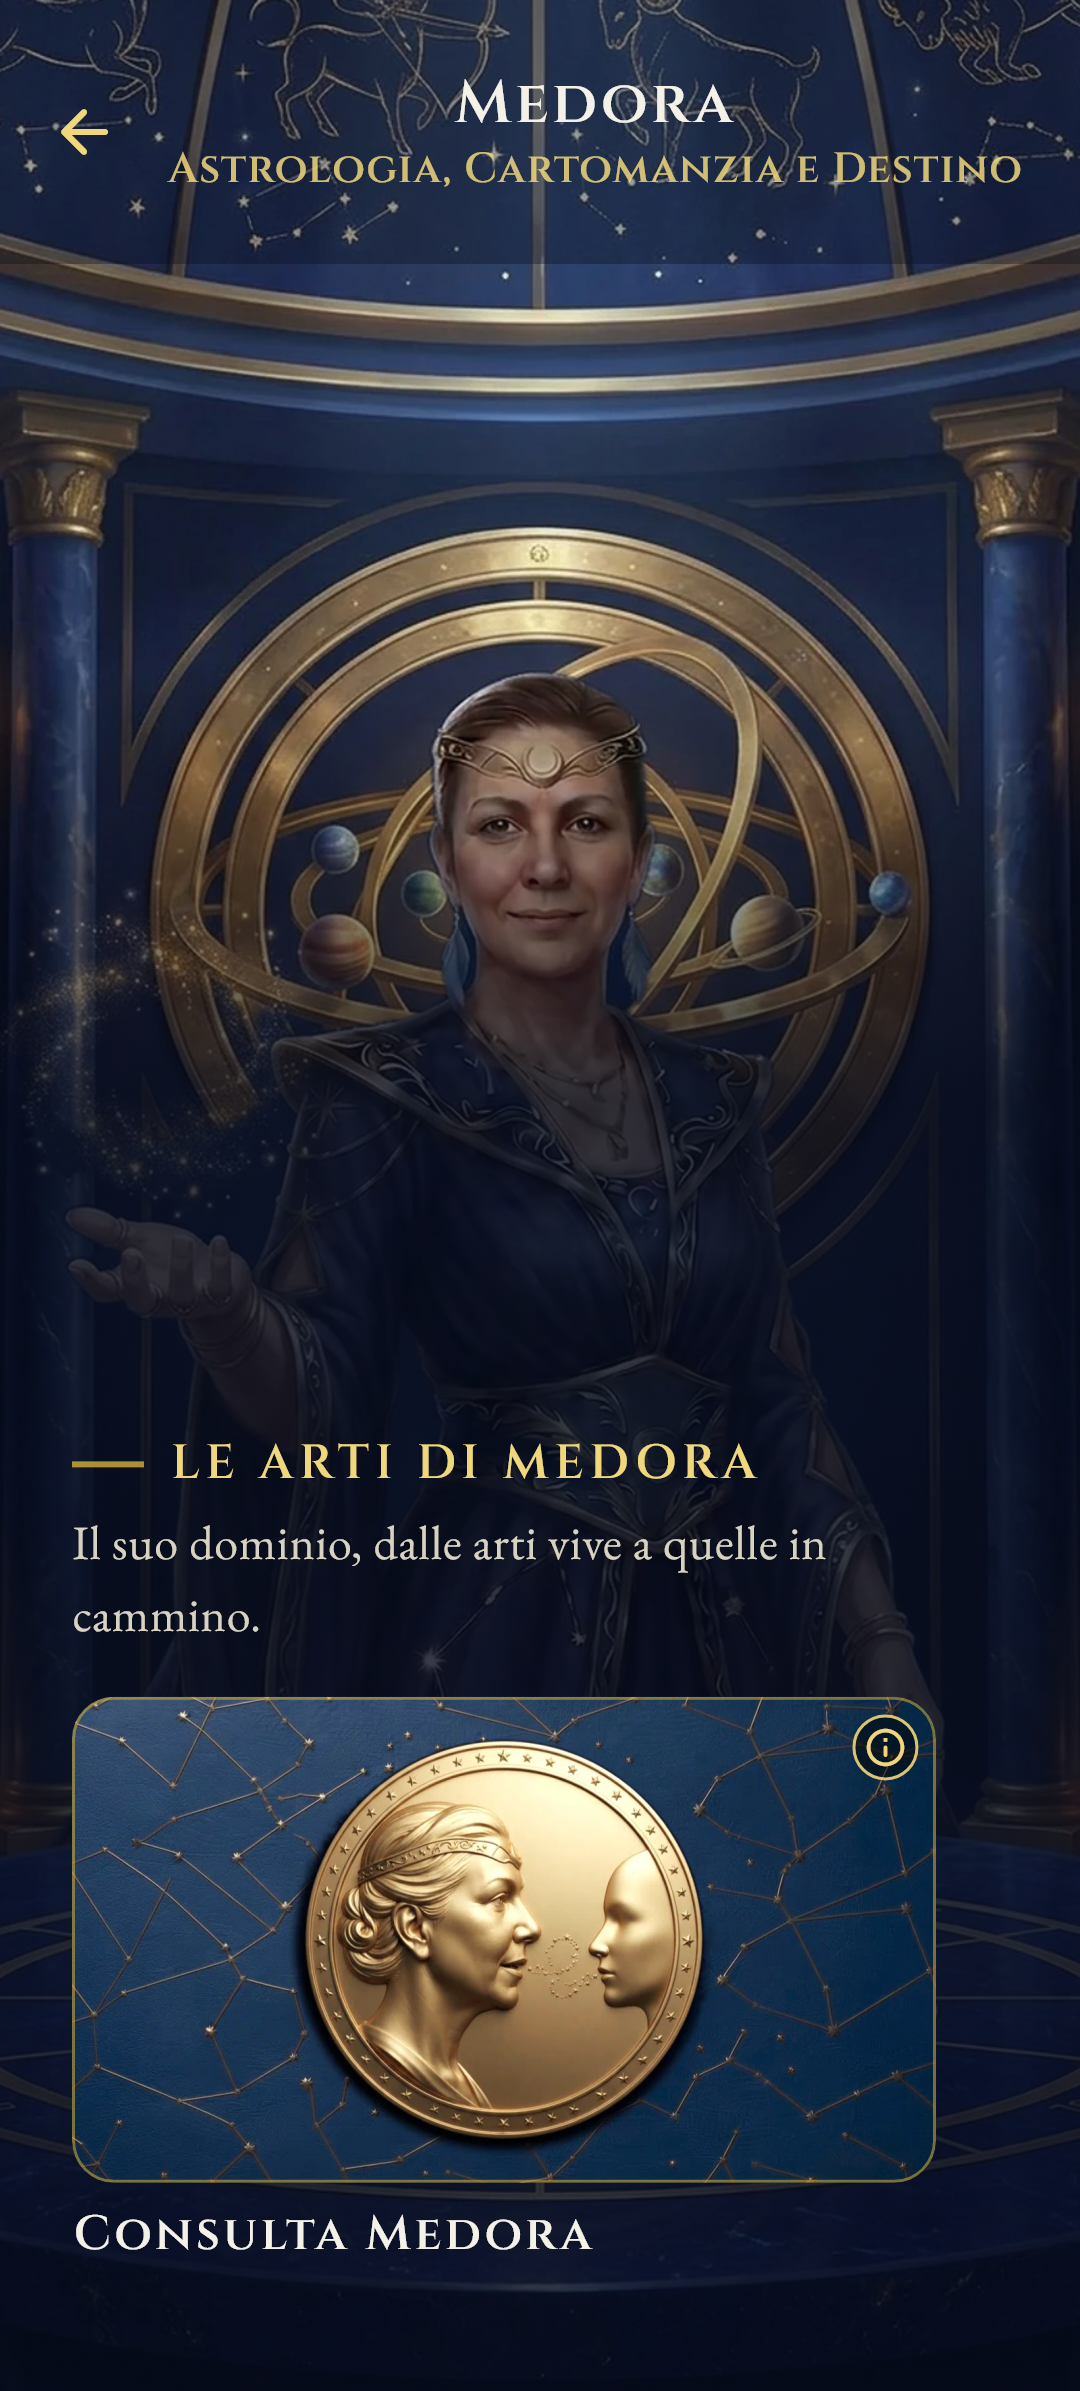
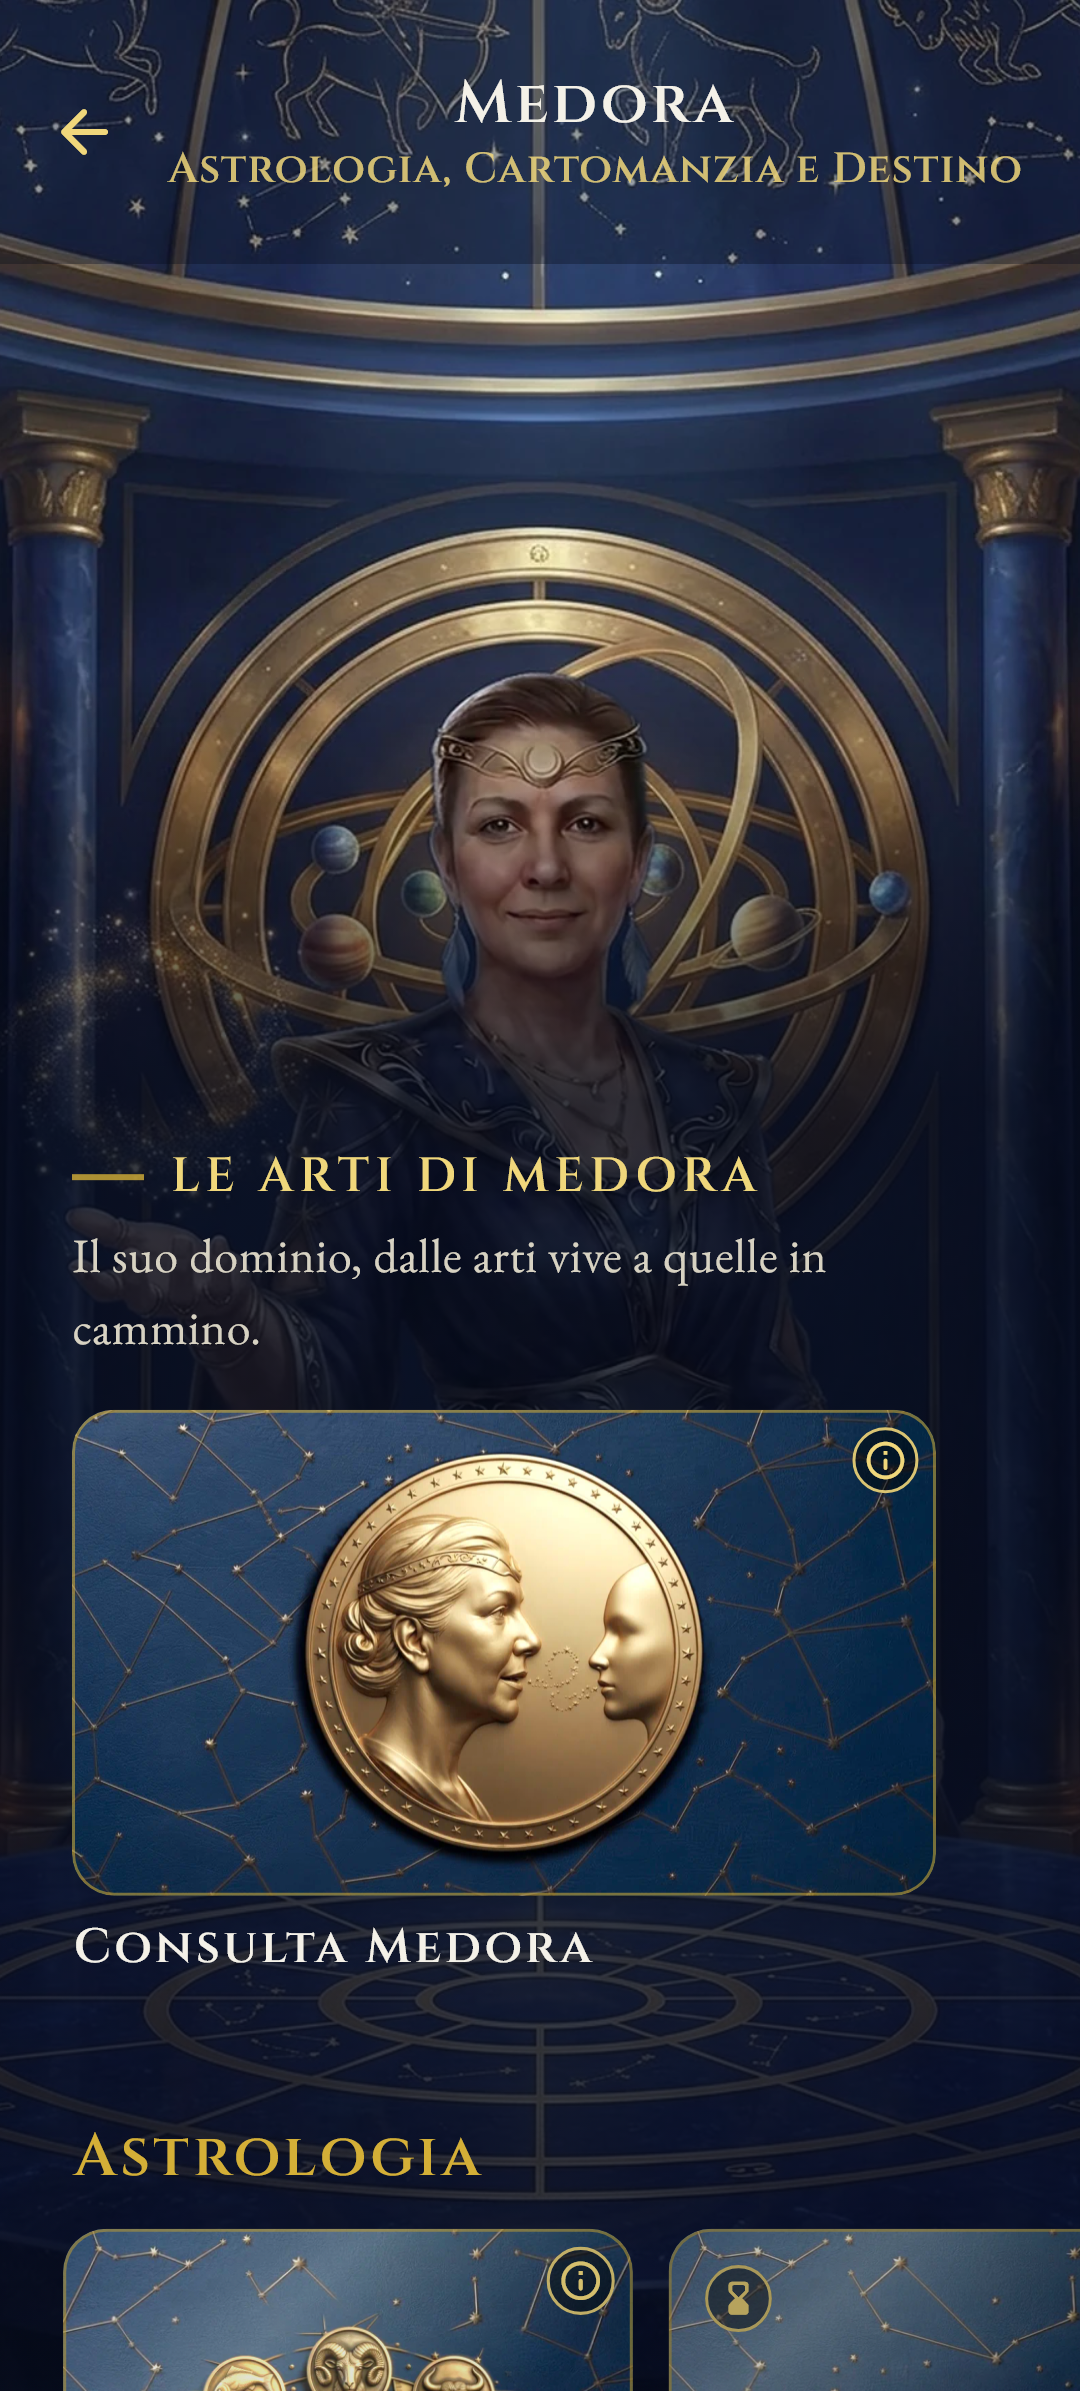
Rosso vero del cancello sul commit 2a610339, due difetti veri di FW.03, padre la stessa voce, nessuno trovato da nessuna cattura: la scheda "Consulta" del dominio, con lo spazio della scena al 46 per cento su uno schermo da 797 punti, finiva sotto la barra Esplora (sempre in vista sul dominio, 112 p
Corretti: lo spazio della scena del dominio dal 46 al 37 per cento (il viso dei tre Maestri resta scoperto con margine, verificato sulle anteprime rigenerate e riguardate), tolto un margine ridondante sopra il titolo quando la scena c'e' gia'; aggiunta la voce 'FW': 6 al sigillo dei manifesti.

flutter analyze sull'intero progetto pulito; le 206 prove della zona, comprese le due che avevano trovato i difetti, tutte verdi.

diff --git a/lib/features/maestri/domain_screen.dart b/lib/features/maestri/domain_screen.dart
@@ -233,13 +233,18 @@ class _DomainScreenState extends State<DomainScreen> {
             ),
             MaestroScreen(
               maestro: widget.maestro,
-              // **IL VISO NON SI COPRE, FW.03**: misurato sui tre ultimi
-              // fotogrammi (docs/preview/FW/), il viso dei tre Maestri sta
-              // tutto entro il 40 per cento alto dell'immagine 1080x1920. Lo
-              // spazio libero e' il 46 per cento dell'altezza dello schermo,
-              // uguale per i tre: il contenuto del dominio comincia sotto le
-              // spalle, mai sopra il mento.
-              spazioScena: MediaQuery.sizeOf(context).height * 0.46,
+              // **IL VISO NON SI COPRE, FW.03**: il viso dei tre Maestri
+              // sta entro il 40 per cento alto dell'immagine 1080x1920. Lo
+              // spazio libero era il 46 per cento dell'altezza dello
+              // schermo: su 797 punti la scheda "Consulta" (la prima azione
+              // del dominio) finiva sotto la barra in basso, sempre in
+              // vista (ordine EJ, 112 punti), e un tocco su di lei veniva
+              // assorbito dalla barra, scoperto da una prova che naviga
+              // l'app vera (test/il_maestro_non_resta_muto_test.dart), non
+              // da nessuna cattura. Il 37 per cento tiene il viso scoperto
+              // con margine e lascia la scheda sopra la barra: misurato di
+              // nuovo con la stessa prova.
+              spazioScena: MediaQuery.sizeOf(context).height * 0.37,
             ),
           ],
         ),

diff --git a/lib/features/maestri/maestro_screen.dart b/lib/features/maestri/maestro_screen.dart
@@ -90,9 +90,18 @@ class _MaestroScreenState extends State<MaestroScreen> {
             ),
           SliverToBoxAdapter(
             child: Padding(
-              padding: const EdgeInsets.fromLTRB(
+              // **COL SOPRA GIA' PIENO DELLA SCENA, NIENTE VUOTO PRIMA DEL
+              // TITOLO, ordine FW.** Senza la scena il margine sopra il
+              // titolo separa la barra dal contenuto; con la scena quel
+              // margine lo fa gia' lei, ed era spazio che la scheda
+              // "Consulta" di questa voce non poteva permettersi: su uno
+              // schermo da 797 punti la scheda finiva sotto la barra in
+              // basso (ordine EJ, sempre in vista, 112 punti), trovato da
+              // una prova che naviga l'app vera e non dalla sola lettura
+              // del codice (test/il_maestro_non_resta_muto_test.dart).
+              padding: EdgeInsets.fromLTRB(
                 SpacingTokens.lg,
-                SpacingTokens.lg,
+                widget.spazioScena > 0 ? 0 : SpacingTokens.lg,
                 SpacingTokens.lg,
                 0,
               ),

diff --git a/test/i_manifesti_sono_sigillati_test.dart b/test/i_manifesti_sono_sigillati_test.dart
@@ -394,6 +394,9 @@ void main() {
     // FV.15, FV.16 e FV.17: "le tre voci entrano nel manifesto di FV"),
     // contate coi titoli "## VOCE FV." del manifesto.
     'FV': 17,
+    // Ordine FW, 15 ottobre 2026: le sei voci (FW.01-FW.06), contate coi
+    // titoli "## VOCE FW." del manifesto.
+    'FW': 6,
     'ACCELERA': 4,
     'P': 40,
     'S': 29,

diff --git a/docs/ordini/RAPPORTO_ORDINE_FW.md b/docs/ordini/RAPPORTO_ORDINE_FW.md
@@ -68,3 +68,5 @@ Da scrivere dopo il push, in coda a questo rapporto (R3, R6: nessun rosso si con
 **Aggiunta del 15 ottobre 2026, ordine FW**: il fondatore, vista l'anteprima di questa consegna, ha corretto la scelta descritta sopra in "IL GIRO DELL'UTENTE" per la chat ("non a tutto schermo come nel dominio, ma una carta incorniciata"): *"E' inaccettabile il riquadro in mezzo alla schermata con il maestro. Trova soluzione elegante e professionale. Il video deve essere a tutto schermo"*. La scena della chat e' salita a sfondo intero di `MaestroChatScreen` (prima stava dentro `ChatEmptyState`, come un riquadro nel contenuto), con lo stesso principio del dominio: fondo fotografato, velo in basso per il saluto, `Positioned.fill` esplicito. La correzione ha preso due difetti in piu', trovati guardando l'anteprima e non da nessuna prova: il volto di `_PresenzaARiposo` (la presenza per il vuoto fra barra e primo messaggio, ordine CO voce 12) restava visibile sopra la scena piena, perche' tolta la figura dalla chat vuota lo spazio sopra il saluto si era allargato; e il gesto che rivela la barra nascosta (ordine EJ voce 09) non trovava piu' zona scorribile a sufficienza per lo stesso motivo. Entrambi corretti: niente presenza a riposo prima del primo messaggio, `ChatEmptyState` riempie tutta l'altezza disponibile col saluto ancorato in basso. Una prova nuova (`test/la_scena_della_chat_e_un_filmato_test.dart`, "la scena della chat copre tutto lo schermo") vista rossa due volte: la prima sul codice gia' a tutto schermo ma ancora dentro il `SafeArea` (709 punti su 797, perche' `SafeArea` toglie comunque l'alto anche con `extendBodyBehindAppBar`), corretta spostando la scena fuori da lui. Le 196 prove della zona e le sei anteprime rigenerate e riguardate di nuovo, tutte verdi; `flutter analyze` pulito sui file toccati.
 
 **Aggiunta del 15 ottobre 2026, ordine FW**: il cancello di GitHub sul commit 4dcc4502 (la correzione della chat a tutto schermo) e' stato rosso su un difetto vero, padre la stessa voce: `test/screenshot_capture_test.dart` non compilava piu', perche' citava `ChatEmptyState.altezzaMinimaDelBusto`, un campo tolto quando il busto ha smesso di avere un'altezza propria da misurare (la scena e' a tutto schermo per costruzione). Non trovato prima della consegna perche' `flutter analyze` era girato solo sui file toccati, mai sul progetto intero: il difetto viveva in un file non toccato da questa voce. Il compile error ha fatto cadere tre pezzi del cancello in cascata: `analyze`, `analyze e sbarramento`, e il corredo a scala massima (una sola schermata montata invece delle almeno centocinquanta richieste, perche' il file che le monta non si caricava). La prova CI.01 (ordine CI voce 01) riscritta per misurare solo cio' che le compete davvero, il saluto che si legge intero sopra il compositore anche al carattere massimo, senza piu' confrontare l'altezza della scena con quella canonica del busto. `flutter analyze` sull'intero progetto pulito; `screenshot_capture_test.dart` per intero, 203 su 203 verdi; le 196 prove della zona di nuovo verdi. Commit della correzione: `1621d1df`.
+
+**Aggiunta del 15 ottobre 2026, ordine FW**: il cancello sul commit 2a610339 e' caduto su due difetti veri in piu', entrambi padre FW.03, nessuno trovato prima perche' nessuna cattura ne' prova della zona navigava l'app vera fino alla scheda "Consulta": 1) `test/il_maestro_non_resta_muto_test.dart` (tre voci piu' una, che navigano dalla home alla chat come farebbe una persona) falliva a trovare il campo di scrittura, perche' il tocco sulla scheda "Consulta" del dominio (spazioScena al 46 per cento) veniva assorbito dalla barra Esplora, sempre in vista li', invece di aprire la chat: la scheda finiva per 80 punti sotto la barra su uno schermo da 797; 2) `test/i_manifesti_sono_sigillati_test.dart` (DS.01) non trovava il manifesto FW nel suo sigillo, un elenco scritto a mano apposta perche' il numero delle voci non si legga dal file (per non coincidere mai per caso con un manifesto corretto a meta'): mancava la riga per aggiungerlo, dimenticanza della consegna. Corretti entrambi: lo spazio della scena del dominio portato dal 46 al 37 per cento (il viso resta scoperto con margine, verificato sulle anteprime rigenerate), tolto un margine ridondante sopra il titolo quando la scena c'e' gia', e la voce `'FW': 6` aggiunta al sigillo. `flutter analyze` sull'intero progetto pulito; le 206 prove della zona, comprese le due che avevano trovato i difetti, tutte verdi. Commit della correzione: da scrivere dopo il push.

diff --git a/docs/ordini/ORDINE_FW_MANIFESTO.md b/docs/ordini/ORDINE_FW_MANIFESTO.md
@@ -25,12 +25,12 @@ MISURA: peso totale dei sei video da 54.914.776 a 23.712.465 byte (54,9 a 23,7 M
 
 ## VOCE FW.03
 
-**APERTA IN ATTESA DI VERIFICA.** All'apertura del dominio di ogni Maestro parte il suo video (regia comune `RegiaDellaScena`), si ferma sull'ultimo fotogramma che resta come fondo fisso al posto di `CosmosBackground`; un tocco in qualunque punto lo fa sfumare, senza aprire per sbaglio un pilastro o la chat; con Riduci Movimento la scena resta ferma da subito. Il viso del Maestro non si copre: il contenuto del dominio comincia al 46 per cento dell'altezza dello schermo, uguale per i tre Maestri, e il busto ritagliato di `MaestroScreen` non compare piu' nel dominio (altrimenti la figura si vedeva due volte, corretto in questo stesso ordine dopo averlo visto sull'anteprima vera). Un velo scurisce il fondo da dove comincia il contenuto, misurato e corretto due volte in questo ordine: prima perche' non dipingeva nulla (mancava `Positioned.fill`), poi perche' arrivava a piena forza dopo l'inizio del testo.
+**APERTA IN ATTESA DI VERIFICA.** All'apertura del dominio di ogni Maestro parte il suo video (regia comune `RegiaDellaScena`), si ferma sull'ultimo fotogramma che resta come fondo fisso al posto di `CosmosBackground`; un tocco in qualunque punto lo fa sfumare, senza aprire per sbaglio un pilastro o la chat; con Riduci Movimento la scena resta ferma da subito. Il viso del Maestro non si copre: il contenuto del dominio comincia al 37 per cento dell'altezza dello schermo, uguale per i tre Maestri, e il busto ritagliato di `MaestroScreen` non compare piu' nel dominio (altrimenti la figura si vedeva due volte, corretto in questo stesso ordine dopo averlo visto sull'anteprima vera). Un velo scurisce il fondo da dove comincia il contenuto, misurato e corretto due volte in questo ordine: prima perche' non dipingeva nulla (mancava `Positioned.fill`), poi perche' arrivava a piena forza dopo l'inizio del testo.
 
 ASPETTA: il fondatore, alla prossima build: aprire il dominio di ognuno dei tre Maestri, guardare il video partire e fermarsi sull'ultimo fotogramma, toccare lo schermo e vedere il video sfumare; tornare al dominio da un'arte o dalla chat e verificare se il video riparte (scelta di Code: solo se l'apertura del dominio e' una nuova apertura della schermata, cioe' una nuova `State`, non un semplice ritorno nello stack di navigazione, per coerenza con le altre scene dell'ordine FU che non ripartono ad ogni ritorno).
 DOMANDA: "La home dei domini, non la Home dei tre maestri", sul video di scena per la home del dominio di ogni Maestro, "per coerenza"; 15 ottobre 2026.
 PROVA: test/la_scena_del_dominio_e_un_filmato_test.dart
-MISURA: 7 prove verdi (tre di apertura, una per Maestro, piu' tocco, scena ferma, Riduci Movimento, tocco che non naviga); vista rossa con l'innesto `onSalta: () {}` verificato col grep (docs/collaudo/FW/fw03_regola_a.txt); il busto duplicato e il velo senza `Positioned.fill` trovati guardando `docs/preview/FW/fw06_aura_dominio_ferma_dopo.png`, non dalla sola lettura del codice: contrasto del titolo e della riga sotto, prima della correzione 1,35 e 1,43 (sotto 4,5), dopo 5,53 e 5,22, misurato da docs/collaudo/FW/fw03_contrasto_sulla_cattura.py sul colore piu' frequente della fascia (la moda, non il pixel piu' chiaro ne' la media)
+MISURA: 7 prove verdi (tre di apertura, una per Maestro, piu' tocco, scena ferma, Riduci Movimento, tocco che non naviga); vista rossa con l'innesto `onSalta: () {}` verificato col grep (docs/collaudo/FW/fw03_regola_a.txt); il busto duplicato e il velo senza `Positioned.fill` trovati guardando `docs/preview/FW/fw06_aura_dominio_ferma_dopo.png`, non dalla sola lettura del codice: contrasto del titolo e della riga sotto, prima della correzione 1,35 e 1,43 (sotto 4,5), dopo 5,53 e 5,22, misurato da docs/collaudo/FW/fw03_contrasto_sulla_cattura.py sul colore piu' frequente della fascia (la moda, non il pixel piu' chiaro ne' la media). Un quarto difetto, trovato dal cancello di GitHub e non da nessuna cattura: con lo spazio al 46 per cento la scheda "Consulta" (la prima azione del dominio) finiva sotto la barra Esplora, sempre in vista sul dominio, e un tocco su di lei veniva assorbito dalla barra invece di aprire la chat (test/il_maestro_non_resta_muto_test.dart, che naviga l'app vera). Portato al 37 per cento e tolto un margine di spaziatura ridondante sopra il titolo quando la scena c'e' gia': la scheda torna sopra la barra con margine, il viso resta scoperto.
 
 ## VOCE FW.04
 

diff --git a/docs/STATO_VIVO.md b/docs/STATO_VIVO.md
@@ -7121,7 +7121,7 @@ Il fondatore, sulla 2308, con nove catture: non fatte le voci FR 1, 2, 4, 5 e 6;
 - **Due difetti veri trovati dalle anteprime, non da nessuna prova (R6)**, corretti prima della consegna: il busto fermo di `MaestroScreen` restava acceso anche dentro il dominio con la scena, duplicando la figura del Maestro (una grande dietro, una piccola sopra); il velo sotto il titolo non dipingeva nulla perche' mancava `Positioned.fill`, visibile solo sul dominio di Aura (le lanterne del tempio sono chiare proprio dove cade il testo: contrasto misurato 1,35 e 1,43, sotto 4,5) e non su Medora o Caligo, dove la scena e' gia' scura li' per conto sua. Corretto, rimisurato: 5,53 e 5,22, sopra soglia. Strumento di misura nuovo: `docs/collaudo/FW/fw03_contrasto_sulla_cattura.py`, il colore piu' frequente della fascia del testo sulla cattura vera, mai il pixel piu' chiaro ne' la media.
 - **Due difetti in piu' trovati dalla correzione della chat a tutto schermo**, dopo la consegna, sempre dalle anteprime: il volto di `_PresenzaARiposo` (la presenza per il vuoto fra la barra e il primo messaggio, ordine CO voce 12) restava visibile sopra la scena piena, perche' tolta la figura dalla chat vuota lo spazio sopra il saluto si era allargato; il gesto che rivela la barra nascosta (ordine EJ voce 09) non trovava piu' zona scorribile a sufficienza per lo stesso motivo. Corretti: niente presenza a riposo prima del primo messaggio, `ChatEmptyState` riempie tutta l'altezza disponibile col saluto ancorato in basso.
 - **Guardie.** Quattro nuove, tutte viste rosse; il registro passa da 792 a 796. Due guardie dell'ordine I, che presidiavano il busto del Maestro, aggiornate per la nuova eccezione del dominio e della chat con la scena (`il_busto_e_la_forma_del_maestro`, `art_catalog_test`). `la_scena_della_chat_e_un_filmato` estesa con una prova sullo schermo intero, vista rossa due volte (709 su 797 col `SafeArea`, poi corretta).
-- **Il cancello di GitHub**: rosso una volta sul commit 4dcc4502, su un difetto vero non proprio della voce ma scoperto da lei: `test/screenshot_capture_test.dart` citava `ChatEmptyState.altezzaMinimaDelBusto`, un campo tolto quando la scena e' salita a tutto schermo. Non trovato prima perche' `flutter analyze` era girato solo sui file toccati, mai sul progetto intero: tre pezzi del cancello sono caduti in cascata (`analyze`, `analyze e sbarramento`, il corredo a scala massima). Corretto nel commit `1621d1df`: `flutter analyze` sull'intero progetto pulito, `screenshot_capture_test.dart` 203 su 203 verdi.
+- **Il cancello di GitHub**: rosso due volte. Sul commit 4dcc4502, un difetto vero non proprio della voce ma scoperto da lei: `test/screenshot_capture_test.dart` citava `ChatEmptyState.altezzaMinimaDelBusto`, un campo tolto quando la scena e' salita a tutto schermo. Non trovato prima perche' `flutter analyze` era girato solo sui file toccati, mai sul progetto intero: tre pezzi del cancello sono caduti in cascata (`analyze`, `analyze e sbarramento`, il corredo a scala massima). Corretto nel commit `1621d1df`: `flutter analyze` sull'intero progetto pulito, `screenshot_capture_test.dart` 203 su 203 verdi. Poi sul commit 2a610339, due difetti veri di FW.03, mai scoperti da nessuna cattura: la scheda "Consulta" del dominio (spazio della scena al 46 per cento) finiva sotto la barra Esplora sempre in vista, e un tocco su di lei veniva assorbito dalla barra invece di aprire la chat (`test/il_maestro_non_resta_muto_test.dart`, che naviga l'app vera); il manifesto FW mancava dal sigillo dei manifesti, un elenco scritto a mano apposta (`test/i_manifesti_sono_sigillati_test.dart`, DS.01). Corretti: lo spazio della scena del dominio dal 46 al 37 per cento (viso ancora scoperto, con margine), tolto un margine ridondante sopra il titolo, aggiunta la voce del sigillo.
 
 **APERTO IN ATTESA DI VERIFICA**:
 - **FW.03 e FW.04, sul telefono**: il video di ogni dominio e di ogni chat che parte davvero, il tocco che lo fa sfumare, il ritorno al dominio, la salita e la scomparsa della scena della chat alla prima risposta.
